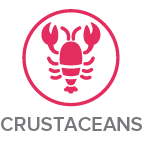
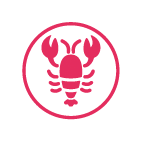
Updated allergy-component & CSS Cleanup

Changed region(s): [[0.0, 0.0563, 1.0, 0.9296]]

diff --git a/src/app/components/recipe-card/recipe-card.component.ts b/src/app/components/recipe-card/recipe-card.component.ts
@@ -6,20 +6,97 @@ import { MatChipsModule } from '@angular/material/chips';
 import { MatDividerModule } from '@angular/material/divider';
 import { Dish } from '../interfaces-recipes';
 import { AllergyIconComponent } from '../allergy-icon/allergy-icon.component';
+import { MatIconModule } from '@angular/material/icon'
 
 @Component({
   selector: 'app-recipe-card',
   standalone: true,
-  imports: [AllergyIconComponent, MatButtonModule, MatCardModule, MatChipsModule, MatDividerModule, CommonModule],
+  imports: [AllergyIconComponent, MatButtonModule, MatCardModule, MatChipsModule, MatDividerModule, CommonModule, MatIconModule],
   templateUrl: './recipe-card.component.html',
   styleUrl: './recipe-card.component.css'
 })
 export class RecipeCardComponent {
   @Input() dish!: Dish;
+  allergies: Array<string> = [];
+
+  ngOnInit(){
+    this.loadDishAllergies();
+  }
   
   generateHtmlElementId(id: number): string{
     // Used to give the recipe-card a unique ID (Not used yet)
     const prefix: string = "dish-";
     return (prefix + id);
+  }
+
+  onCardClick(){ // UNFINISHED FUNCTION, will be used to get the associated allergies from the ingredients
+    /*
+     TO-DO: ADD CARD ROUTING
+    */
+    console.log("No routing to dish-page yet...");
+  }
+
+  loadDishAllergies(): void{ // UNFINISHED FUNCTION
+
+    /*
+      TO-DO: API-Calls to get the allergies associated with this dish's ingredients
+    */
+
+    /* ### TEMPORARY HARD-CODED LOGIC ###*/
+    const randomAmount = Math.round((Math.random()*3)); // MAKE RANDOM AMOUNT OF ALLERGIES
+    for (let index = 0; index < randomAmount; index++) { // ADD RANDOM ALLERGIES TO ARRAY
+      const randomInt = Math.round((Math.random()*14));
+      let allergy: string;
+      switch (randomInt){
+        case 1:
+          allergy = "CELERY";
+          break;
+        case 2:
+          allergy = "CRUSTACEANS";
+          break;
+        case 3:
+          allergy = "EGG";
+          break;
+        case 4:
+          allergy = "FISH";
+          break;
+        case 5:
+          allergy = "GLUTEN";
+          break;
+        case 6:
+          allergy = "LUPIN";
+          break;
+        case 7:
+          allergy = "MILK";
+          break;
+        case 8:
+          allergy = "MOLLUSCS";
+          break;
+        case 9:
+          allergy = "MUSTARD";
+          break;
+        case 10:
+          allergy = "NUTS";
+          break;
+        case 11:
+          allergy = "PEANUTS";
+          break;
+        case 12:
+          allergy = "SESAME";
+          break;
+        case 13:
+          allergy = "SOYA";
+          break;
+        case 14:
+          allergy = "SULPHITE"
+          break;
+        default:
+          allergy = "GLUTEN";
+      }
+      this.allergies.push(allergy);
+    }
+    /* ################################# */
+
+    console.log("Allergies for " + this.dish.name + ": " + this.allergies);
   }
 }

diff --git a/src/app/components/recipe-card/recipe-card.component.html b/src/app/components/recipe-card/recipe-card.component.html
@@ -1,12 +1,16 @@
-<mat-card class="recipe-card" [id]="generateHtmlElementId(dish.id)">
+<mat-card class="recipe-card" 
+[id]="generateHtmlElementId(dish.id)"
+(click)="onCardClick()">
     <div class="recipe-container">
-        <!--  Recipe details  -->
+        <!--  Recipe details (Left side of card)  -->
         <div class="recipe-details">
+            <!--  Card header (Title/Allergies/Types)  -->
             <div class="recipe-header">
                 <div class="title-container">
-                    <!--  TO-DO Allergy-call  -->
-                    <app-allergy-icon [iconType]="'gluten'"></app-allergy-icon>
                     <mat-card-title>{{dish.name | titlecase}}</mat-card-title>
+                    @for (allergy of allergies; track $index) {
+                        <app-allergy-icon [iconType]="allergies[$index]"></app-allergy-icon>
+                    }
                 </div>
                 <mat-chip-listbox aria-label="Recipe Types">
                     <!--  Chip types  -->
@@ -16,21 +20,22 @@
                 </mat-chip-listbox>
             </div>
             <mat-divider></mat-divider>
+            <!--  Card content (Description, duration, people, season)  -->
             <mat-card-content>
-                <div class="detail-container">
+                <div class="details-container">
                     <!--  Time display  -->
-                    <div>
-                        <img class="detail-img" src="../../../assets/images/icons/clock.png" alt="time">
+                    <div class="detail">
+                        <mat-icon class="detail-img">timelapse</mat-icon>
                         {{dish.duration}} Min.
                     </div>
                     <!--  For how many people display  -->
-                    <div>
-                        <img class="detail-img" src="../../../assets/images/icons/people.png" alt="people">
+                    <div class="detail">
+                        <mat-icon class="detail-img">people</mat-icon>
                         Serves {{dish.amount_of_people}}
                     </div>
                     <!--  Season display  -->
-                    <div>
-                        <img class="detail-img" src="../../../assets/images/icons/season.png" alt="people">
+                    <div class="detail">
+                        <mat-icon class="detail-img">wb_sunny</mat-icon>
                         {{dish.season.name}}
                     </div>
                 </div>
@@ -39,7 +44,7 @@
                 </div>
             </mat-card-content>
         </div>
-        <!--  Recipe image  -->
+        <!--  Recipe image (Right side of card)  -->
         <img class="recipe-img" [src]="dish.image_url">
     </div>
 </mat-card>

diff --git a/src/app/pages/homepage/homepage.component.ts b/src/app/pages/homepage/homepage.component.ts
@@ -1,16 +1,17 @@
 import { Component, OnInit } from '@angular/core';
 import { RecipeCardComponent } from '../../components/recipe-card/recipe-card.component';
 import { Dish } from '../../components/interfaces-recipes';
-import {MatToolbarModule} from '@angular/material/toolbar';
-import {MatFormFieldModule} from '@angular/material/form-field';
-import {MatAutocompleteModule} from '@angular/material/autocomplete';
-import {MatInputModule} from '@angular/material/input';
+import { MatToolbarModule } from '@angular/material/toolbar';
+import { MatFormFieldModule } from '@angular/material/form-field';
+import { MatAutocompleteModule } from '@angular/material/autocomplete';
+import { MatInputModule } from '@angular/material/input';
 import { FormsModule } from '@angular/forms';
 import { DishesApiService } from '../../services/api-calls/dishes-api.service';
+import {MatProgressBarModule} from '@angular/material/progress-bar';
 @Component({
   selector: 'app-homepage',
   standalone: true,
-  imports: [RecipeCardComponent, MatToolbarModule, MatFormFieldModule, MatAutocompleteModule, MatInputModule, FormsModule],
+  imports: [RecipeCardComponent, MatToolbarModule, MatFormFieldModule, MatAutocompleteModule, MatInputModule, FormsModule, MatProgressBarModule],
   templateUrl: './homepage.component.html',
   styleUrl: './homepage.component.css'
 })
@@ -19,7 +20,7 @@ export class HomepageComponent {
   /*
   TODO:
     * API-Call needs to get token from loginservice
-    * use material icons for the symbols (people/time/season/etc)
+    * Upon card click, should navigate to dish-page
     * search-bar should have red indication when search result is invalid
     * Show allergies => Load ingredients of recipe and check if they're linked to allergies
   */

diff --git a/src/app/components/recipe-card/recipe-card.component.css b/src/app/components/recipe-card/recipe-card.component.css
@@ -24,7 +24,7 @@
 }
 .recipe-img{
     width: 40%;
-    height: 30vh;
+    height: 32vh;
     object-fit: cover;
     object-position: bottom left;
     border-radius: 0 1vw 1vw 15vh;
@@ -37,28 +37,49 @@ mat-divider{
 /* ### CARD HEADER ### */
 
 mat-card-title{
-    font-size: 2vh;
+    font-size: 4.2vh;
+    margin-left: 1vh;
 }
 .recipe-header{
     display: flex;
     justify-content: space-between;
-    margin: 1vh;
+    margin-top: 1vh;
+    margin-bottom: 1vh;
+    margin-left: 1vw;
+    margin-right: 1vw;
     align-items: center;
     justify-items: center;
+    align-items: center;
 }
 .title-container{
     display: flex;
     align-items: center;
-    margin-bottom: 1vh;
+}
+
+mat-chip{
+    height: 4.2vh;
 }
 
 /* ### DETAILS ### */
-.detail-text, .detail-img{
-    height: 30px
+.details-container{
+    /* Collection of detail sets */
+    display: flex;
+    flex-wrap: nowrap;
+    justify-content: space-evenly;
+    align-items: center;
+    margin-top: 1vh;
+    margin-bottom: 1.4vh;
+}
+.detail{
+    /* Collection of one image and one text */
+    display: flex;
+    align-items: center;
+    gap: 0.1rem;
+}
+.detail-text{
+    height: 2vh;
 }
 .detail-img{
-    position: relative;
-    top: 1vh;
     filter: 
         grayscale(100) 
         brightness(50) 
@@ -67,16 +88,10 @@ mat-card-title{
         hue-rotate(270deg) 
         saturate(1000%);
 }
-.detail-container{
-    display: flex;
-    flex-wrap: nowrap;
-    justify-content: space-evenly;
-    align-items: center;
-    margin-bottom: 1.4vh;
-}
+
 .description-container{
     background-color: #eecbff13;
-    height: 6.5vh;
+    height: 10vh;
     padding: 1vh;
     margin-bottom: 1vh;
     border-radius: 1vh;

diff --git a/src/app/components/allergy-icon/allergy-icon.component.ts b/src/app/components/allergy-icon/allergy-icon.component.ts
@@ -1,28 +1,42 @@
 import { Component, Input } from '@angular/core';
+import { MatTooltipModule } from '@angular/material/tooltip';
 
 @Component({
   selector: 'app-allergy-icon',
   standalone: true,
-  imports: [],
+  imports: [MatTooltipModule],
   templateUrl: './allergy-icon.component.html',
   styleUrl: './allergy-icon.component.css'
 })
 export class AllergyIconComponent {
   @Input() iconType!: string;
   @Input() iconSize!: string;
-
-  basePath: string = "../../../assets/images/allergies/"
+  @Input() withText: boolean = false; // DEFAULT WITHOUT TEXT
 
   getImagePath(): string {
-    return (this.basePath + this.iconType.toUpperCase() + ".png");
+    const basePathWithoutText: string = "../../../assets/images/allergies/";
+    const basePathWithText: string = "../../../assets/images/allergiesWithText/";
+
+    if (this.withText){
+      // IMAGE WITH TEXT
+      return (basePathWithText + this.iconType.toUpperCase() + ".png");
+    } else {
+      // IMAGE WITHOUT TEXT (DEFAULT)
+      return (basePathWithoutText + this.iconType.toUpperCase() + ".png");
+    }
   }
 
   getSize(): string{
     if (this.iconSize) {
       return (this.iconSize);
     } else {
-      // Default size: 5vh
-      return ("5vh");
+      // Default size: 6vh
+      return ("6vh");
     }
+  }
+
+  getTooltip(): string{
+    const tooltip: string = 'Contains traces of ' + this.iconType.toLowerCase(); 
+    return tooltip;
   }
 }

diff --git a/src/app/services/api-calls/dishes-api.service.ts b/src/app/services/api-calls/dishes-api.service.ts
@@ -33,14 +33,17 @@ export class DishesApiService {
   }
 
   getDishList(): Array<Dish>{
-    // TEMPORARY LOGIC UNTIL BACKEND IS FIXED:
+    /*
+      ### TEMPORARY LOGIC UNTIL BACKEND IS FIXED ###
+    */
     for (let index = 0; index < this.dishes.length; index++) {
       this.dishes[index].name = "Banana";
       this.dishes[index].description = "Lorem ipsum dolor sit amet. Et obcaecati earum sit voluptatibus omnis aut dicta internos qui necessitatibus internos et molestiae officiis et numquam vero. Sed nemo corrupti qui ipsam repellendus qui odit incidunt ut provident galisum! Ut maiores tenetur et beatae quae et impedit nesciunt rem dolores architecto aut Quis voluptates quo libero officiis et illo enim?";
       this.dishes[index].image_url = "https://cdn.mos.cms.futurecdn.net/YDFk8cgmSKu8VYFVedUQ8j-1200-80.jpg"
     }
-
-
+    /*
+      ###############################################
+    */
     return this.dishes;
   }
 }

diff --git a/src/app/pages/homepage/homepage.component.html b/src/app/pages/homepage/homepage.component.html
@@ -13,6 +13,7 @@
     @for (dish of dishList; track $index) {
         <app-recipe-card [dish]="dish"></app-recipe-card>
     } @empty {
-        <div>No recipes found</div>
+        <div>Looking for dishes...</div>
+        <mat-progress-bar mode="buffer" class="buffer-bar"></mat-progress-bar>
     }
 </div>

diff --git a/src/app/components/allergy-icon/allergy-icon.component.html b/src/app/components/allergy-icon/allergy-icon.component.html
@@ -1,1 +1,7 @@
-<img class="allergy-img" [src]="getImagePath()" [style.height]="getSize()">
+<img 
+class="allergy-img"
+[src]="getImagePath()"
+[style.height]="getSize()"
+[matTooltip]="getTooltip()"
+[matTooltipPosition]="'above'"
+>

diff --git a/src/app/pages/homepage/homepage.component.css b/src/app/pages/homepage/homepage.component.css
@@ -16,3 +16,9 @@
     margin-left: 1vw;
     margin-right: 1vw;
 }
+.buffer-bar{
+    width: 32vw;
+    height: 2vh;
+    background-color: gray;
+    border-radius: 1vh;
+}

diff --git a/src/app/components/allergy-icon/allergy-icon.component.css b/src/app/components/allergy-icon/allergy-icon.component.css
@@ -1,6 +1,5 @@
 .allergy-img{
     position: relative;
     top: 0.6vh;
-    
-    margin-right: 0.1rem;
+    margin-right: -0.5vw;
 }
